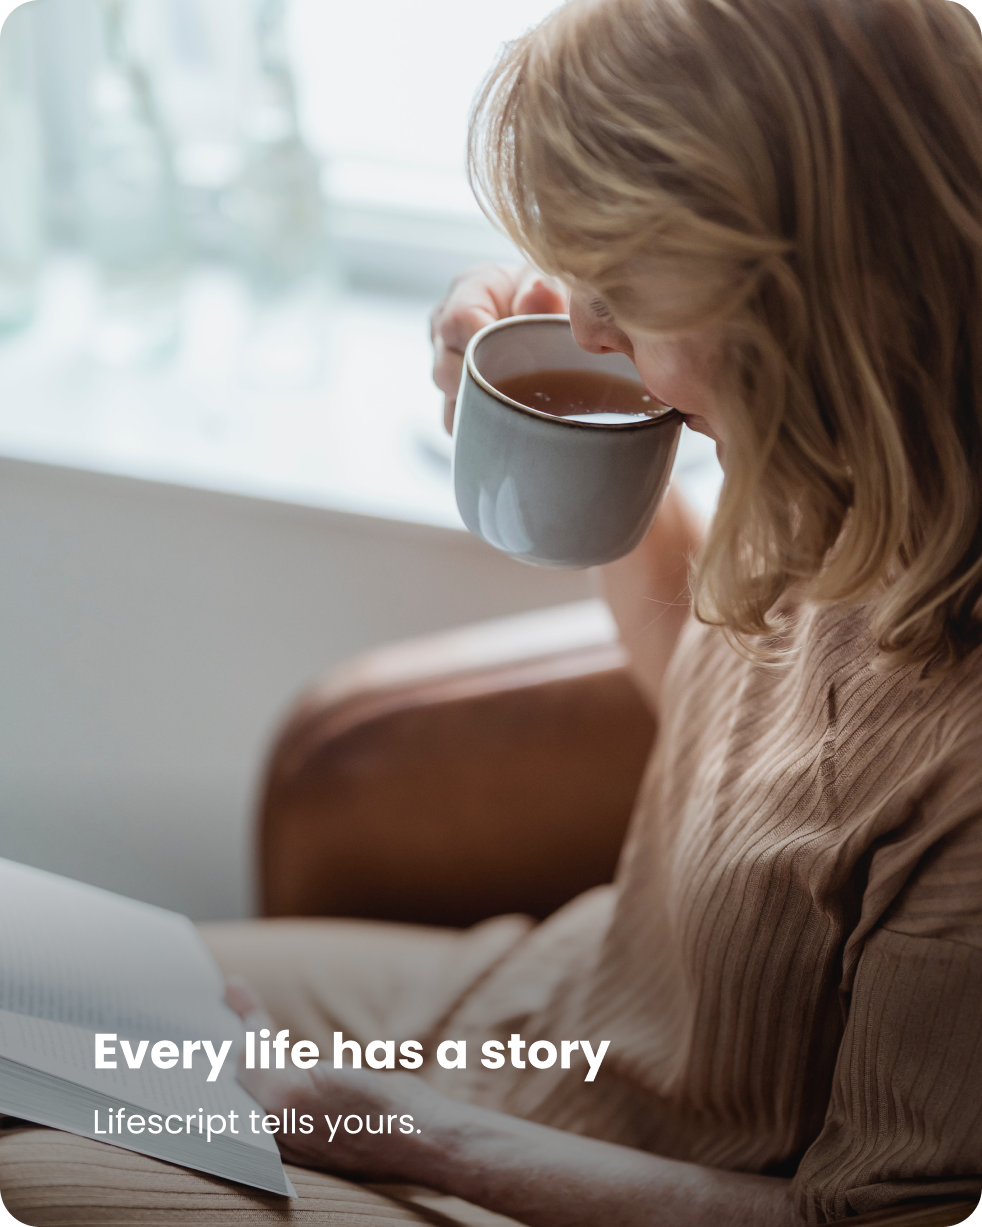
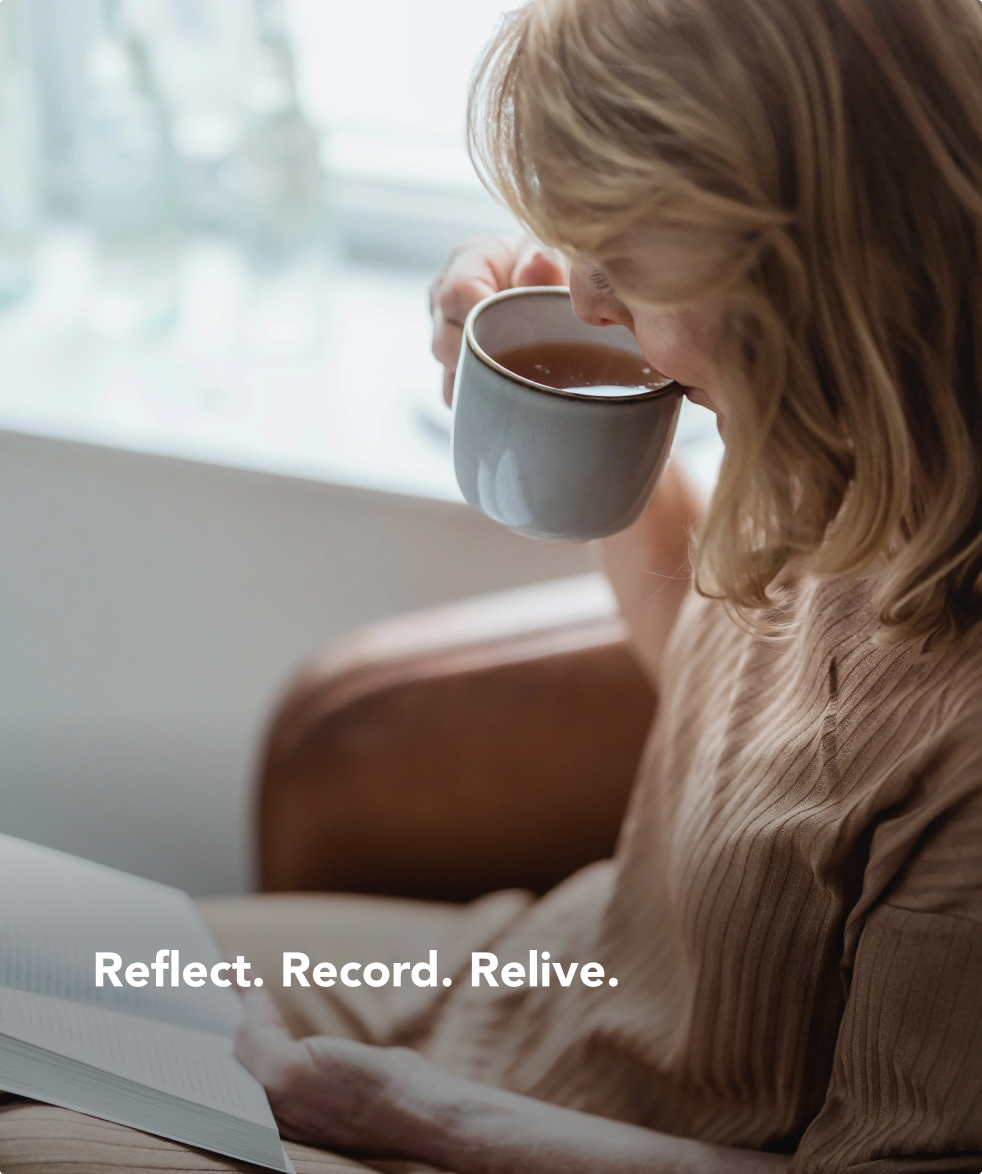
changing slider images of auth pages

diff --git a/src/components/authComponent/Register.tsx b/src/components/authComponent/Register.tsx
@@ -5,8 +5,8 @@ import Image from "next/image";
 import * as React from "react";
 import { useState } from "react";
 import { useTranslation } from "react-i18next";
-import Carousel2 from "../../../public/carousel.png";
-import Carousel1 from "../../../public/carousel1.png";
+import Carousel2 from "../../../public/carousel1.png";
+import Carousel1 from "../../../public/carousel.png";
 import Carousel3 from "../../../public/carousel3.png";
 
 import { CircularProgress } from "@mui/material";
